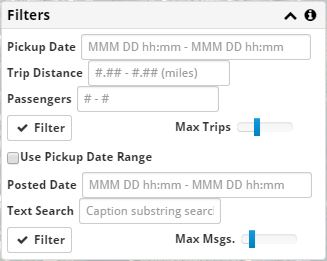
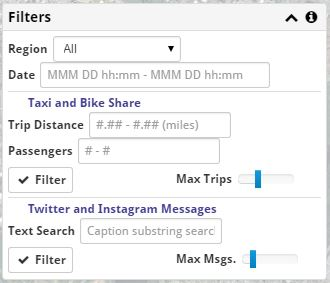
Update the help to reflect changes.

Changed region(s): [[0.0, 0.0, 1.0, 1.0], [0.1835, 0.0, 0.7034, 0.0307], [0.7339, 0.4291, 0.8257, 0.5517]]

diff --git a/docs/filters.rst b/docs/filters.rst
@@ -6,26 +6,38 @@ Selecting Data (Filtering)
 
 Data is selected in the **Filters** panel.
 
-Taxi Data
-+++++++++
+Region and Date
++++++++++++++++
 
-If you select the upper **Filter** button, taxi trip information is loaded from the database.  By default, a limited sample of data is loaded, distributed across the entire year of 2013.
+The **Region** control restricts results to a specific city or selects data
+from all regions.  After changing this, you need to select **Filter** for both
+the trip and message data to reload it with the changed region.
+
+The **Date** can be specified to limit which trips and messages re loaded.  The date range is *inclusive* of the start and *exclusive* of the end.  For instance, to load the first day of May, specify from 2013-05-01 00:00 - 2013-05-02 00:00.  Times are 24 hour format.
+
+Taxi and Bike Share Data
+++++++++++++++++++++++++
+
+If you select the upper **Filter** button, taxi and bike share trip information is loaded from the database.  By default, a limited sample of data is loaded, distributed across the entire year of 2013.
 
 The **Max Trips** slider can be used to load more data, which will result in more accurate graphs and binned data, but take longer and use more local resources.
 
-The **Pickup Date** can be specified to limit which trips are loaded.  Remember that the data is only for 2013, so if you specify a date outside of that range, you won't get any results.  The date range is *inclusive* of the start and *exclusive* of the end.  For instance, to load the day of May, specify from 2013-05-01 00:00 - 2013-05-02 00:00.  Times are 24 hour format.
+Trip data is plotted on the map using black points for each trip, or shown using blue and yellow points, lines, or squares, depending on the display settings.
 
-Taxi data is plotted on the map using black points for each trip, or shown using blue and yellow points, lines, or squares, depending on the display settings.
+Trips can be selected based on **Trip Distance** and number of **Passengers**.  Not all data sets have this information (for instance, it isn't set in the Bike Share data).
+
 
 .. _filterMessages:
 
-Instagram and Twitter Data
+Twitter and Instagram Data
 ++++++++++++++++++++++++++
 
-The lower **Filter** button loads Instagram and Twitter messages from the database.  If **Use Pickup Date Range** is selected, the Pickup Date from the Taxi area will be used.  If it is not selected, the dates can be limited by specifying a range in the **Posted Date** field.
+The lower **Filter** button loads Instagram and Twitter messages from the database.
 
 The **Max Inst.** slider can be used to load more data, which will take longer and use more local resources.
 
 A **Text Search** can be used to get only messages related to a particular topic.  This uses a general text search, so a value of 'Hospital' will match both 'Hospital' and 'Hospitality'.  If multiple words are specified, all words are required.  Words can be prefixed with a minus sign to exclude them, and can be quoted to match an exact form.  For instance, 'Hospital -"Hospitality"' will find hospitals but exclude posts about hotel conferences.
+
+You can use the | character to perform OR searches, ! or - excludes a serach term.  Parentheses ( ) can be used to group terms for more complicated searches.
 
 Instagram and Twitter data is plotted on the map using red points.

diff --git a/docs/dataSources.rst b/docs/dataSources.rst
@@ -1,22 +1,43 @@
 Data Sources
 ------------
 
-Minerva Taxi provides a way to examine two data sets from 2013 concentrated in
-New York City.  The data sets are:
+Minerva Taxi can be configured to access different data sets.
 
-* **Taxicab Trips**
+Most of the current data is from 2012 - 2015, and is concentrated in New York City, Washington D.C., and Boston.  Some of the data sets available are:
+
+Trip Data
+=========
+
+* **Taxicab Trips - NYC**
     This includes all yellow cab trips in Mahattan and some of the green cab
-    trips from the nearby area.  The data includes pickup and dropoff locations
-    and time, plus a variety of other data.  Around 173 million trips are in
-    the database.
+    trips in the outer boroughs.  The data includes pickup and dropoff 
+    locations and time, plus a variety of other data.  Around 173 million
+    yellow cab trips and 6 millions green cab trips are in the database.
+
+* **Taxicab Trips - Boston**
+    This includes late night taxi pickups and dropoffs that are not in
+    residential areas from 2012 through May of 2014.
+
+* **Bike Share Trips - Washington D.C.**
+    This data is from publicly available bicycles.  There are 378 distinct
+    bicycle stations, and the data consists of trips between them for 2013
+    through the first quarter of 2015.
+
+Message Data
+============
 
 * **Instagram Messages**
-    This is a subset of Instagram messages that were in the greater New York
-    area.  Around 7.5 million messages are in the database.
+    This is a subset of Instagram messages that were sent in the greater New
+    York, Washington D.C., and Boston areas.  There are around 7.5 million
+    messages from NYC, 1.0 million from D.C., and 0.5 million from Boston.
 
 * **Twitter Messages**
-    This is a subset of Twitter messages that were in the greater New York
-    area.  Around 12.5 million messages are in the database.
+    This is a subset of Twitter messages that were sent in the greater New York
+    York, Washington D.C., and Boston areas.  There are around 31 million
+    messages from NYC, 2.5 million from D.C., and 4.5 million from Boston.
+
+Graph Data
+==========
 
 There is some additional data that can be plotted on graphs, but not on the map:
 

diff --git a/docs/display.rst b/docs/display.rst
@@ -22,7 +22,7 @@ The **Max Points** control determine how much is drawn on the map.  You can load
 
 If **Display Type** is 'Pickup - Dropoff Vectors' a straight line connects each pickup location with the corresponding dropoff location.  The line is blue at the pickup end and yellow at the dropoff end.
 
-If **Processing** is set to 'Binned Heatmap', all of the filtered taxi trips are used to produce a a grid of squares whose opacity is proportional to whichever square had the most taxi trips.  If the **Display Type** is 'Pickup - Dropoff Locations', the squares are blue when there are more pickups than dropoffs, and yellow when there are more dropoffs than pickups.  The number of bins across the map can be changed and the map can be rebinned as desired.
+If **Processing** is set to 'Binned Heatmap', all of the filtered taxi trips are used to produce a a grid of squares whose opacity is proportional to whichever square had the most taxi trips.  If the **Display Type** is 'Pickup - Dropoff Locations', the squares are blue when there are more pickups than dropoffs, and yellow when there are more dropoffs than pickups.  The number of bins across the map can be changed.  The data is rebinned whenever the map is panned or zoomed.
 
 Instagram and Twitter Data
 ++++++++++++++++++++++++++

diff --git a/docs/index.rst b/docs/index.rst
@@ -1,7 +1,7 @@
 Minerva Taxi: Data Analysis Tool
 ================================
 
-Minerva Taxi provides a way to examine two data sets from 2013 concentrated in New York City.  Data can be selected by date, keyword, or other criteria.
+Minerva Taxi provides a way to examine trip and social message data geospatially.  Data can be selected by date, keyword, or other criteria.
 
 .. toctree::
    :maxdepth: 2
